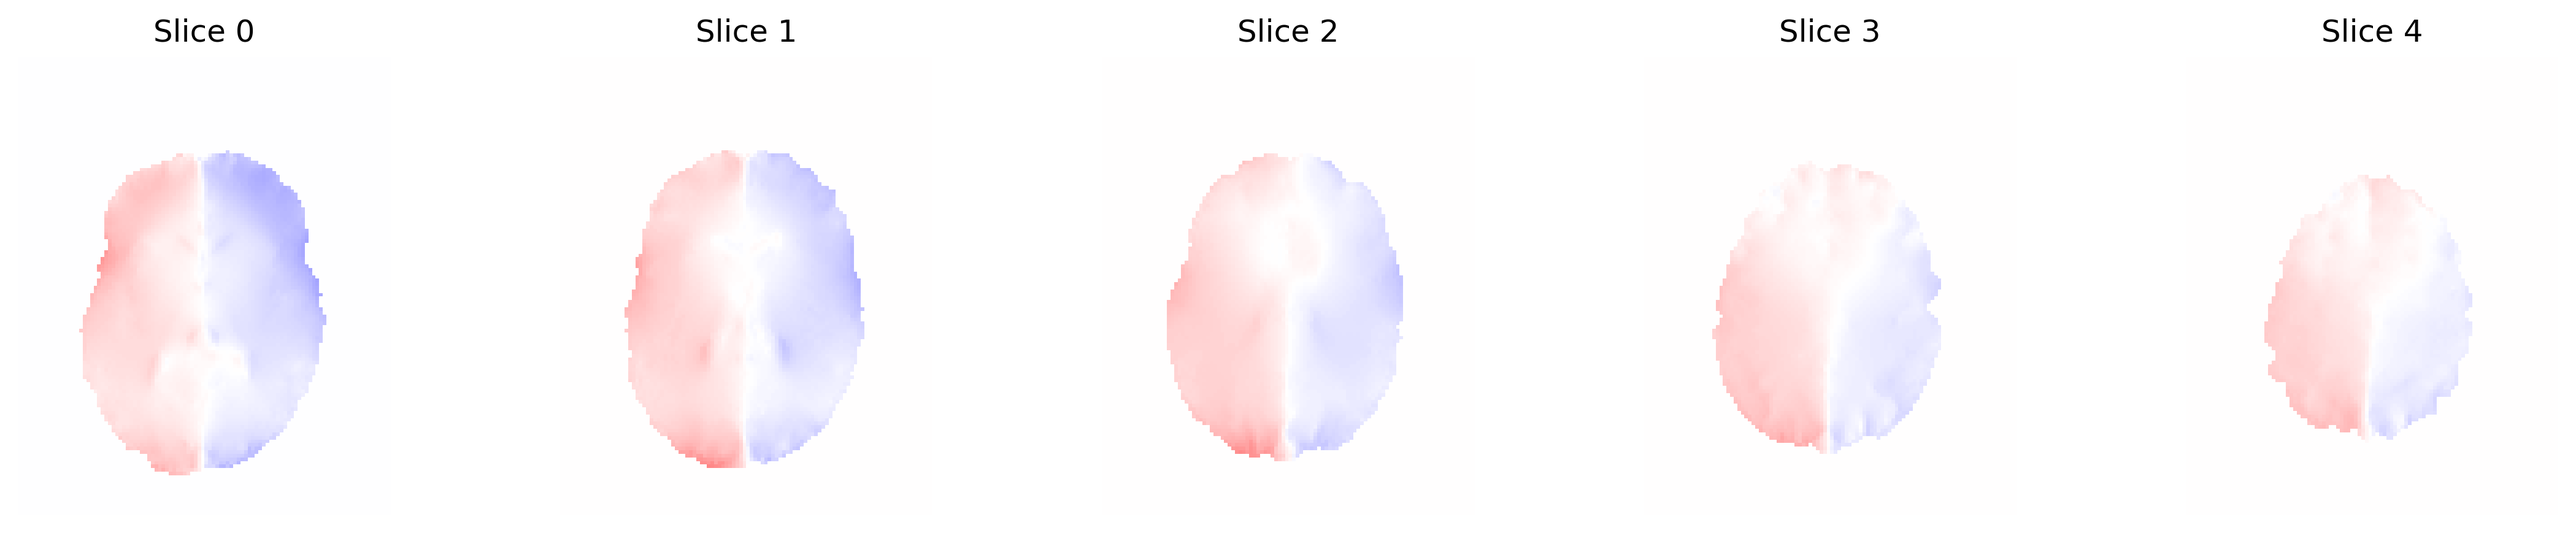
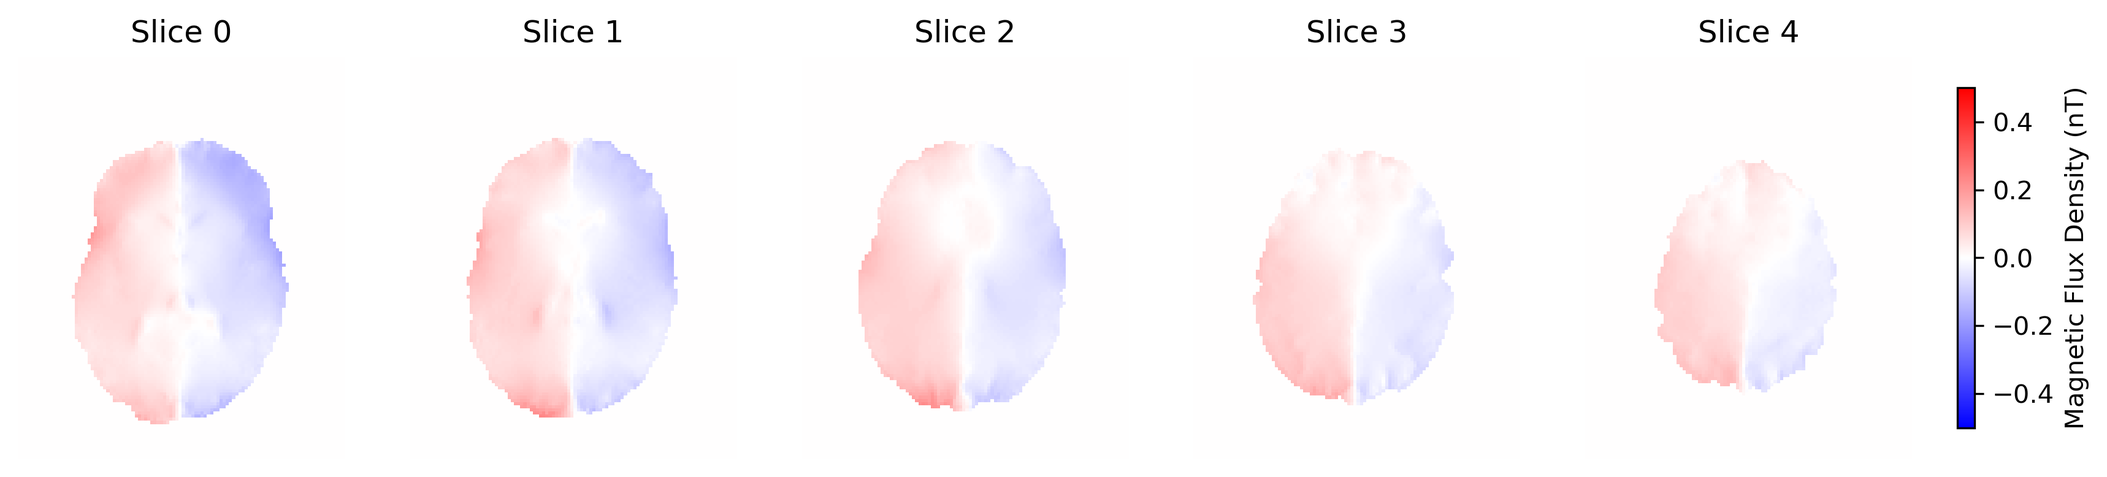
feat: Implement Y-gradient, norm-gradient, and Laplacian calculations and visualizations, and enhance Bz slice plotting with a shared colorbar.

diff --git a/compute_derivative.py b/compute_derivative.py
@@ -1,40 +1,158 @@
 import numpy as np
 import nibabel as nib
 import matplotlib.pyplot as plt
-from gradient_utils import xGradient  # Import the derivative function
+from scipy.ndimage import binary_erosion
 
-# Load your NIfTI file (output from CreateSimulatedDBzc.py)
+# --- Lütfen gradient_utils dosyanızın bu script ile aynı klasörde olduğundan emin olun ---
+try:
+    from gradient_utils import xGradient, yGradient
+except ImportError:
+    print("UYARI: gradient_utils bulunamadı. Lütfen dosya yolunu kontrol edin.")
+    # Kodun çökmemesi için geçici tanımlar (Sizde dosya olduğu için burası çalışmayacaktır)
+    def xGradient(img, res): return np.gradient(img, res, axis=0)
+    def yGradient(img, res): return np.gradient(img, res, axis=1)
+
+# 1. Veriyi Yükle ve Hesapla
 nifti_path = "/Users/nalansonverdi/Desktop/unt/Dbzc_Meas_5Slices.nii.gz"
 nifti_img = nib.load(nifti_path)
-data = nifti_img.get_fdata()  # Shape: (128, 5, 104) - x, slices, y
-affine = nifti_img.affine
+data = nifti_img.get_fdata() 
+res_x = 0.002
 
-# Voxel resolution (from your script: 2mm = 0.002m; adjust if different)
-res_x = 0.002  # meters
+gradients = np.zeros_like(data)
+y_gradients = np.zeros_like(data)
 
-# Compute gradient for each slice (loop over the 5 slices)
-gradients = np.zeros_like(data)  # To store results: shape (128, 5, 104)
-for slice_idx in range(data.shape[1]):  # 5 slices
-    slice_2d = data[:, slice_idx, :]  # Extract 2D slice: (128, 104)
-    # Optional: Mask if you have a brain mask (e.g., from your masks/)
-    # mask = nib.load("path/to/mask.nii.gz").get_fdata()[:, slice_idx, :]
-    # slice_2d = np.ma.masked_where(mask == 0, slice_2d)
-    
-    grad_2d = xGradient(slice_2d, res_x)  # Compute gradient (output in 1/m)
-    gradients[:, slice_idx, :] = grad_2d
+# İlk türevleri hesapla (Gradient)
+for i in range(data.shape[1]):
+    gradients[:, i, :] = xGradient(data[:, i, :], res_x)
+    y_gradients[:, i, :] = yGradient(data[:, i, :], res_x)
 
-# Save the gradient as a new NIfTI (optional, for inspection)
-grad_nifti = nib.Nifti1Image(gradients, affine)
-nib.save(grad_nifti, "/Users/nalansonverdi/Desktop/unt/Dbzc_Gradients.nii.gz")
+# Maske oluşturma ve kenarları aşındırma
+mask = np.abs(data) > 0
+eroded_mask = np.zeros_like(mask)
+for i in range(data.shape[1]):
+    eroded_mask[:, i, :] = binary_erosion(mask[:, i, :], iterations=2)
 
-# Plot like in your original script (adjust vmin/vmax based on gradient range)
-fig = plt.figure(figsize=(15, 3))
-vmin, vmax = np.min(gradients), np.max(gradients)
+gradients[~eroded_mask] = 0
+y_gradients[~eroded_mask] = 0
+
+# Norm Gradient Hesapla
+norm_gradients = np.sqrt(gradients**2 + y_gradients**2)
+norm_gradients[~eroded_mask] = 0
+
+# ---------------------------------------------------------
+# DÜZELTİLEN KISIM: Laplacian Hesapla ve Ölçek Belirle
+# ---------------------------------------------------------
+laplacian = np.zeros_like(data)
+for i in range(data.shape[1]):
+    # Laplacian: Gradientlerin tekrar türevi (d^2/dx^2 + d^2/dy^2)
+    grad_xx = xGradient(gradients[:, i, :], res_x)
+    grad_yy = yGradient(y_gradients[:, i, :], res_x)
+    laplacian[:, i, :] = grad_xx + grad_yy
+
+laplacian[~eroded_mask] = 0
+
+# Laplacian için Dinamik Vmax Hesaplama
+# Sabit 1e-8 yerine, verinin %98'ini kapsayan değeri buluyoruz.
+# Sadece maske içindeki değerleri dikkate alıyoruz.
+valid_laplacian_vals = np.abs(laplacian[eroded_mask])
+if valid_laplacian_vals.size > 0:
+    vmax_lap_dynamic = np.percentile(valid_laplacian_vals, 98)
+else:
+    vmax_lap_dynamic = 1e-8 # Veri boşsa fallback
+
+print(f"Laplacian Max Değeri: {np.max(laplacian)}")
+print(f"Laplacian Görselleştirme için hesaplanan Vmax: {vmax_lap_dynamic}")
+
+# ---------------------------------------------------------
+
+# Görselleştirme Verilerini Hazırla
+plot_data_x = np.abs(gradients)
+plot_data_y = np.abs(y_gradients)
+plot_data_norm = norm_gradients
+plot_data_lap = np.abs(laplacian)
+
+plt.style.use('default') 
+
+# 2. GÖRSELLEŞTİRME - X Gradient (Aynen Korundu)
+fig, axes = plt.subplots(1, 5, figsize=(22, 6), facecolor='white')
+vmin = 0
+vmax = 1e-8
+
 for i in range(5):
-    plt.subplot(1, 5, i+1)
-    plt.imshow(gradients[:, i, :], vmin=vmin, vmax=vmax, cmap="bwr")  # Use actual range
-    plt.title(f"Gradient Slice {i}")
-    plt.axis('off')
-plt.tight_layout()
-plt.savefig("/Users/nalansonverdi/Desktop/unt/Dbzc_Gradients_Plot.png", dpi=300, bbox_inches='tight')
+    slice_data = plot_data_x[:, i, :].T
+    rotated_data = np.rot90(slice_data, k=-3)
+    im = axes[i].imshow(rotated_data, cmap='viridis', 
+                        origin='lower', vmin=vmin, vmax=vmax)
+    axes[i].set_title(f"X Gradient Slice {i}", fontsize=13, fontweight='bold', pad=15)
+    axes[i].axis('off')
+
+fig.subplots_adjust(right=0.88)
+cbar_ax = fig.add_axes([0.91, 0.15, 0.015, 0.7])
+cbar = fig.colorbar(im, cax=cbar_ax)
+cbar.set_label('Gradient Magnitude (1/m)', rotation=90, labelpad=20, fontsize=12)
+plt.suptitle("Dbzc X-Gradients Analysis", fontsize=18, y=0.98)
+plt.savefig("/Users/nalansonverdi/Desktop/unt/Dbzc_Gradients_X_WhiteBG.png", dpi=300, bbox_inches='tight', facecolor='white')
+
+# 3. GÖRSELLEŞTİRME - Y Gradient (Aynen Korundu)
+fig_y, axes_y = plt.subplots(1, 5, figsize=(22, 6), facecolor='white')
+vmax_y = 1e-8
+
+for i in range(5):
+    slice_data = plot_data_y[:, i, :].T
+    rotated_data = np.rot90(slice_data, k=-3)
+    im_y = axes_y[i].imshow(rotated_data, cmap='viridis', 
+                        origin='lower', vmin=vmin, vmax=vmax_y)
+    axes_y[i].set_title(f"Y Gradient Slice {i}", fontsize=13, fontweight='bold', pad=15)
+    axes_y[i].axis('off')
+
+fig_y.subplots_adjust(right=0.88)
+cbar_ax_y = fig_y.add_axes([0.91, 0.15, 0.015, 0.7])
+cbar_y = fig_y.colorbar(im_y, cax=cbar_ax_y)
+cbar_y.set_label('Gradient Magnitude (1/m)', rotation=90, labelpad=20, fontsize=12)
+plt.suptitle("Dbzc Y-Gradients Analysis", fontsize=18, y=0.98)
+plt.savefig("/Users/nalansonverdi/Desktop/unt/Dbzc_Gradients_Y_WhiteBG.png", dpi=300, bbox_inches='tight', facecolor='white')
+
+# 4. GÖRSELLEŞTİRME - Norm Gradient (Aynen Korundu)
+fig_norm, axes_norm = plt.subplots(1, 5, figsize=(22, 6), facecolor='white')
+vmax_norm = 1e-8
+
+for i in range(5):
+    slice_data = plot_data_norm[:, i, :].T
+    rotated_data = np.rot90(slice_data, k=-3)
+    im_norm = axes_norm[i].imshow(rotated_data, cmap='viridis', 
+                        origin='lower', vmin=vmin, vmax=vmax_norm)
+    axes_norm[i].set_title(f"Norm Gradient Slice {i}", fontsize=13, fontweight='bold', pad=15)
+    axes_norm[i].axis('off')
+
+fig_norm.subplots_adjust(right=0.88)
+cbar_ax_norm = fig_norm.add_axes([0.91, 0.15, 0.015, 0.7])
+cbar_norm = fig_norm.colorbar(im_norm, cax=cbar_ax_norm)
+cbar_norm.set_label('Gradient Magnitude (1/m)', rotation=90, labelpad=20, fontsize=12)
+plt.suptitle("Dbzc Norm-Gradients Analysis", fontsize=18, y=0.98)
+plt.savefig("/Users/nalansonverdi/Desktop/unt/Dbzc_Gradients_Norm_WhiteBG.png", dpi=300, bbox_inches='tight', facecolor='white')
+
+# 5. GÖRSELLEŞTİRME - Laplacian (GÜNCELLENDİ)
+fig_lap, axes_lap = plt.subplots(1, 5, figsize=(22, 6), facecolor='white')
+
+# Burada hesapladığımız dinamik vmax değerini kullanıyoruz
+vmax_lap = vmax_lap_dynamic
+
+for i in range(5):
+    slice_data = plot_data_lap[:, i, :].T
+    rotated_data = np.rot90(slice_data, k=-3)
+    # vmin=0, vmax=hesaplanan_deger
+    im_lap = axes_lap[i].imshow(rotated_data, cmap='viridis', 
+                        origin='lower', vmin=0, vmax=vmax_lap)
+    
+    axes_lap[i].set_title(f"Laplacian Slice {i}", fontsize=13, fontweight='bold', pad=15)
+    axes_lap[i].axis('off')
+
+fig_lap.subplots_adjust(right=0.88)
+cbar_ax_lap = fig_lap.add_axes([0.91, 0.15, 0.015, 0.7])
+cbar_lap = fig_lap.colorbar(im_lap, cax=cbar_ax_lap)
+cbar_lap.set_label('Laplacian Magnitude (1/m^2)', rotation=90, labelpad=20, fontsize=12)
+
+plt.suptitle("Dbzc Laplacian Analysis", fontsize=18, y=0.98)
+plt.savefig("/Users/nalansonverdi/Desktop/unt/Dbzc_Laplacian_WhiteBG.png", dpi=300, bbox_inches='tight', facecolor='white')
+
 plt.show()

diff --git a/gradient_utils.py b/gradient_utils.py
@@ -2,7 +2,7 @@ import numpy as np
 import numpy.typing as npt
 from scipy.interpolate import RBFInterpolator as RBF
 
-def eval_at_xEdges(im: npt.NDArray[np.float_]) -> npt.NDArray[np.float_]:
+def eval_at_xEdges(im: npt.NDArray[np.float64]) -> npt.NDArray[np.float64]:
     """Fits a thin-plate-spline to the input image and evaluates it 
     at the edges of the voxels (in the x/horziontal direction)
     """
@@ -37,19 +37,54 @@ def eval_at_xEdges(im: npt.NDArray[np.float_]) -> npt.NDArray[np.float_]:
     
     return im_xEdges
 
-def xGradient(im: npt.NDArray[np.float_], res_x: float) -> npt.NDArray[np.float_]:
+def eval_at_yEdges(im: npt.NDArray[np.float64]) -> npt.NDArray[np.float64]:
+    """Fits a thin-plate-spline to the input image and evaluates it 
+    at the edges of the voxels (in the y/vertical direction)
+    """
+    
+    assert im.ndim == 2, print(im.shape)
+    
+    # Create grid of points for interpolation
+    rows, cols = im.shape
+    x = np.arange(cols)
+    y = np.arange(rows)
+    X, Y = np.meshgrid(x, y)
+    
+    # Flatten for RBF
+    points = np.column_stack((X.ravel(), Y.ravel()))
+    values = im.ravel()
+    
+    # Mask handling
+    if np.ma.isMA(im):
+        mask = im.mask.ravel()
+        points = points[~mask]
+        values = values[~mask]
+    
+    # RBF interpolation
+    rbf = RBF(points, values, kernel='thin_plate_spline')
+    
+    # Evaluate at edges: yEdges are at y - 0.5 and y + 0.5
+    yEdges = np.arange(-0.5, rows + 0.5, 1.0)
+    X_edges, Y_edges = np.meshgrid(x, yEdges)
+    edge_points = np.column_stack((X_edges.ravel(), Y_edges.ravel()))
+    
+    im_yEdges = rbf(edge_points).reshape(rows + 1, cols)
+    
+    return im_yEdges
+
+def xGradient(im: npt.NDArray[np.float64], res_x: float) -> npt.NDArray[np.float64]:
     """Computes discrete derivatives of the input image along the x (horizontal) direction
     
     Parameters
     ----------
-    im : npt.NDArray[np.float_]
+    im : npt.NDArray[np.float64]
         2D input image
     res_x: float
         Voxel size in the horizontal direction (in m)
 
     Returns
     -------
-    npt.NDArray[np.float_]
+    npt.NDArray[np.float64]
         Discrete derivatives of the input image along the x (horizontal) direction (in /m)
     """
     
@@ -78,3 +113,45 @@ def xGradient(im: npt.NDArray[np.float_], res_x: float) -> npt.NDArray[np.float_
         xgradient = np.ma.masked_where(im.mask, xgradient)
         
     return xgradient/res_x
+
+def yGradient(im: npt.NDArray[np.float64], res_y: float) -> npt.NDArray[np.float64]:
+    """Computes discrete derivatives of the input image along the y (vertical) direction
+    
+    Parameters
+    ----------
+    im : npt.NDArray[np.float64]
+        2D input image
+    res_y: float
+        Voxel size in the vertical direction (in m)
+
+    Returns
+    -------
+    npt.NDArray[np.float64]
+        Discrete derivatives of the input image along the y (vertical) direction (in /m)
+    """
+    
+    assert im.ndim == 2, print(im.shape)
+    
+    im_yEdges = eval_at_yEdges(im)
+    ygradient = np.zeros_like(im)
+    
+    for row in range(im.shape[0]):
+        for col in range(im.shape[1]):
+            if not np.ma.is_masked(im[row, col]):
+                
+                # If this is the top pixel (assuming row 0 is top) -> don't trust the fit on the top edge
+                if row == 0 or np.ma.is_masked(im[row-1, col]): 
+                    ygradient[row,col] =  im[row+1,col]- im[row,col] 
+                        
+                # If this is the bottom pixel -> don't trust the fit on the bottom edge
+                elif row == im.shape[0]-1 or np.ma.is_masked(im[row+1, col]): 
+                    ygradient[row,col] = im[row,col]- im[row-1,col] 
+                
+                else:
+                    ygradient[row,col] = im_yEdges[row+1,col] - im_yEdges[row,col]
+
+        
+    if np.ma.isMA(im):
+        ygradient = np.ma.masked_where(im.mask, ygradient)
+        
+    return ygradient/res_y

diff --git a/CreateSimulatedDBzc.py b/CreateSimulatedDBzc.py
@@ -173,14 +173,26 @@ def main():
 
     #%% Plotting
     print("Sonuçlar çiziliyor ve kaydediliyor...")
-    fig = plt.figure(figsize=(15, 3)) # Figure nesnesini değişkene atayalım
-    for i in range(5):
-        plt.subplot(1, 5, i+1)
-        plt.imshow(Bz[:, i, :], vmin=-0.5e-9, vmax=0.5e-9, cmap="bwr")
-        plt.title(f"Slice {i}")
-        plt.axis('off')
+    fig = plt.figure(figsize=(16, 3)) # Figure nesnesini değişkene atayalım
     
-    plt.tight_layout()
+    # Store mappable for colorbar
+    im = None
+    
+    # Scale to nT for plotting
+    Bz_plot = Bz * 1e9
+
+    for i in range(5):
+        ax = plt.subplot(1, 5, i+1)
+        # Plot in nT with range -0.5 to 0.5
+        im = ax.imshow(Bz_plot[:, i, :], vmin=-0.5, vmax=0.5, cmap="bwr")
+        ax.set_title(f"Slice {i}")
+        ax.axis('off')
+    
+    # Add colorbar shared across axes
+    cbar = fig.colorbar(im, ax=fig.axes, shrink=0.8, location='right', pad=0.02)
+    cbar.set_label('Magnetic Flux Density (nT)')
+    
+    # plt.tight_layout() # Removing tight_layout as it might interfere with colorbar placement in some mpl versions
     
     # Kaydetme işlemini SHOW'dan ÖNCE yapmalısın
     plot_filename = os.path.join(base_project_path, 'Bz_Slices_Output.png')
